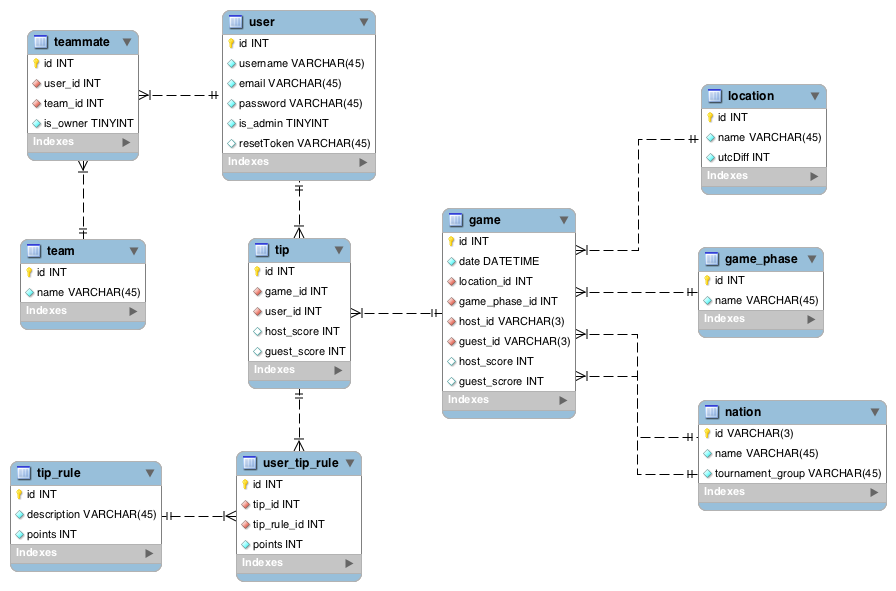
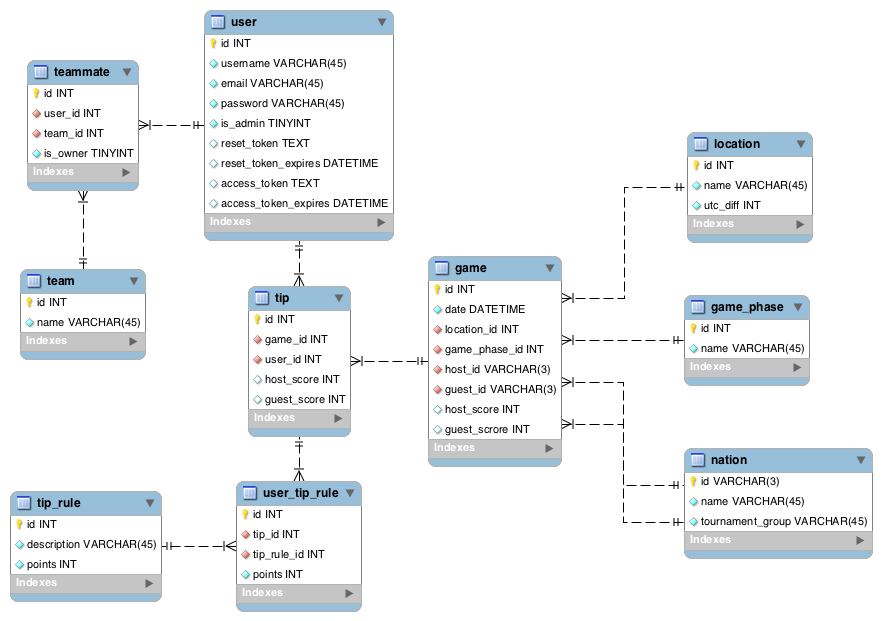
add challenges and updated erm

diff --git a/src/app.js b/src/app.js
@@ -22,9 +22,10 @@ import uiGamesSlide from './slides/103-ui-games.slide.html';
 import uiRankingSlide from './slides/104-ui-ranking.slide.html';
 import uiTeamSlide from './slides/105-ui-team.slide.html';
 import uiProfileSlide from './slides/106-ui-profile.slide.html';
+import challenges1Slide from './slides/107-challenges.slide.html';
+import challenges2Slide from './slides/108-challenges.slide.html';
 
 import questionSlide from './slides/900-questions.slide.html';
-import emptySlide from './slides/999-empty.slide.html';
 
 // -------------------------------------------------------------------------
 // Slides
@@ -35,16 +36,19 @@ const slides = [
   indexSlide,
 
   ermSlide,
+
+  uiLoginSlide,
   uiRegisterSlide,
   uiResetSlide,
-  uiLoginSlide,
   uiGamesSlide,
   uiRankingSlide,
   uiTeamSlide,
   uiProfileSlide,
 
+  challenges1Slide,
+  challenges2Slide,
+
   questionSlide,
-  emptySlide,
 ]
   .forEach(s => $('#slides').append(s));
 

diff --git a/src/slides/108-challenges.slide.html b/src/slides/108-challenges.slide.html
@@ -1,0 +1,15 @@
+<section class="page box-center space-around">
+  <div class="container">
+
+    <h1 class="page-tilte">
+      <span>Challenges</span>
+    </h1>
+
+    <div class="content">
+      <h3>React</h3>
+      <p>This is no Framework!!!</p>
+      <img width="40%" src="../../static/images/react.gif" alt="">
+    </div>
+
+  </div>
+</section>

diff --git a/src/slides/107-challenges.slide.html b/src/slides/107-challenges.slide.html
@@ -1,0 +1,15 @@
+<section class="page box-center space-around">
+  <div class="container">
+
+    <h1 class="page-tilte">
+      <span>Challenges</span>
+    </h1>
+
+    <div class="content">
+      <h3>Spring Security</h3>
+      <p>WIP</p>
+      <img width="40%" src="../../static/images/spring-sec.gif" alt="">
+    </div>
+
+  </div>
+</section>

diff --git a/src/slides/001-index.slide.html b/src/slides/001-index.slide.html
@@ -9,6 +9,7 @@
 
       <h3>ERM</h3>
       <h3>UI - Mockups</h3>
+      <h3>Challenges</h3>
       <h3>Fragen</h3>
 
     </div>

diff --git a/src/sass/_common.scss b/src/sass/_common.scss
@@ -1,5 +1,5 @@
 section.box-center {
-  height: 100%;
+  height: 100% !important;
   padding: 0;
 
   .container {
